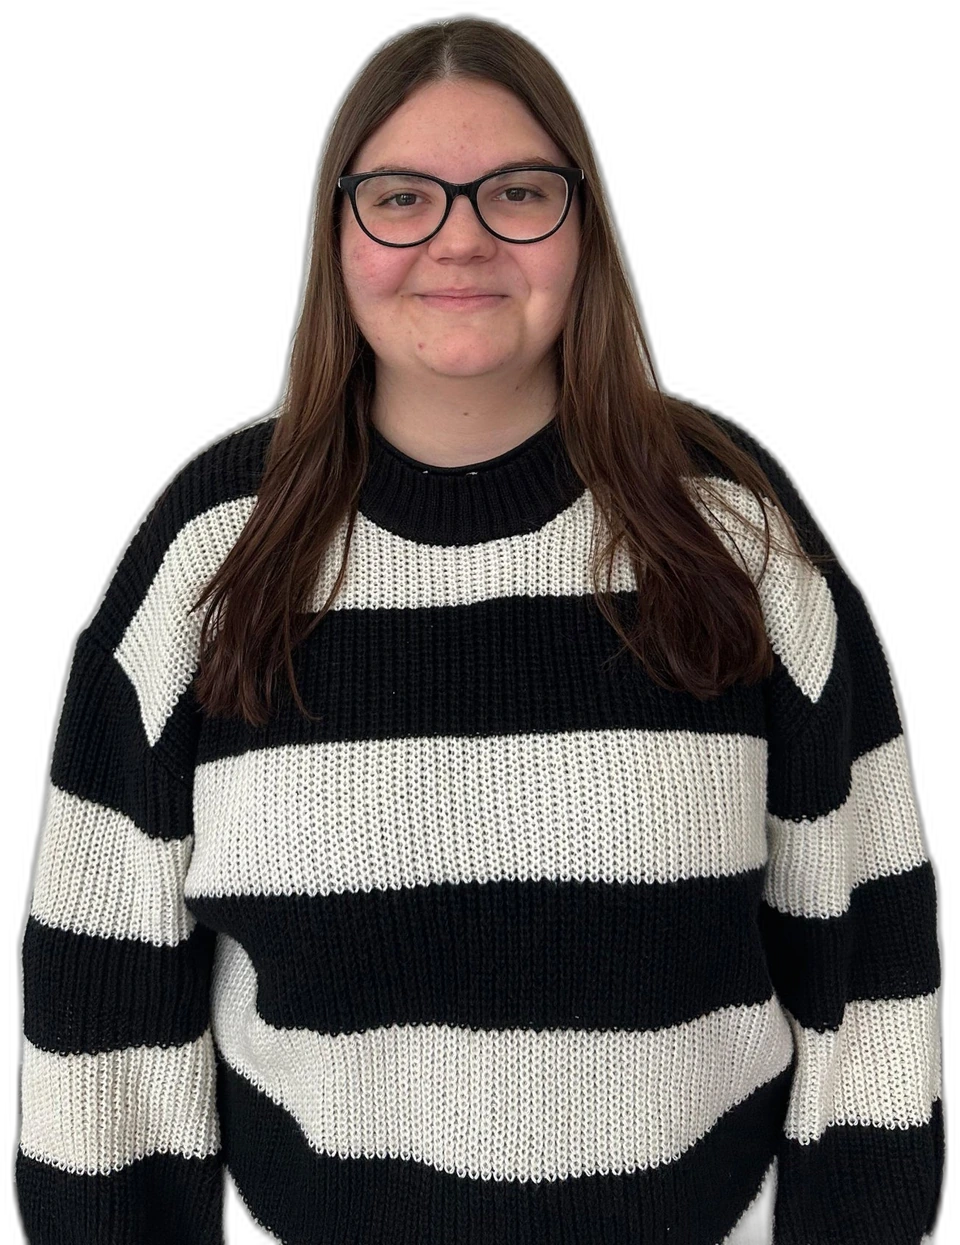
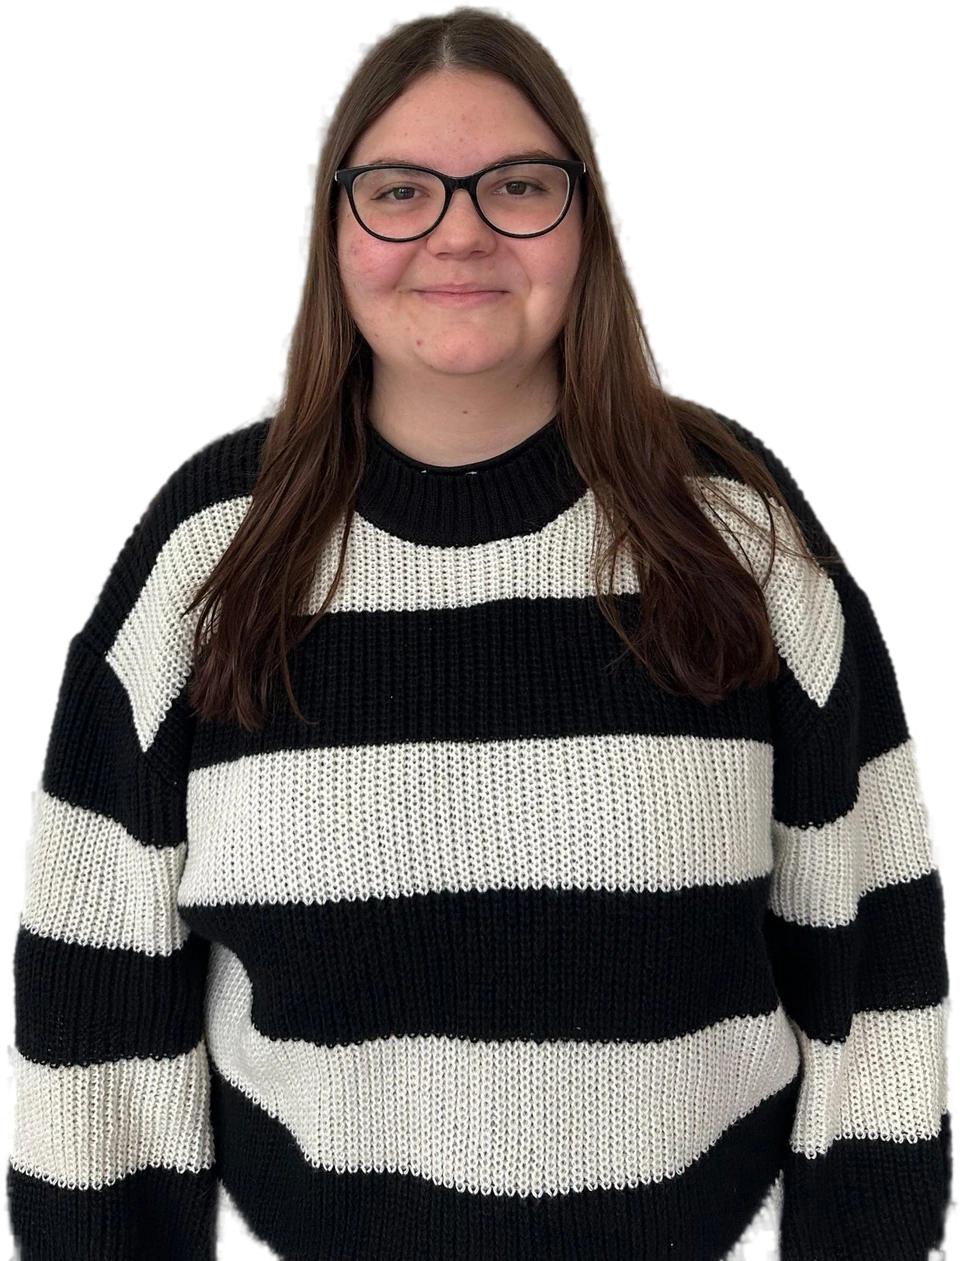
Cleaner portrait cutout, shift left, tighten section heights
Claude-Session: https://claude.ai/code/session_01MGpawRiiwHTkNBdGgmQyvH

diff --git a/app/globals.css b/app/globals.css
@@ -266,7 +266,7 @@ section {
 .heroPortrait {
   position: absolute;
 
-  left: 53%;
+  left: 49%;
   bottom: -40px;
 
   transform: translateX(-50%);
@@ -359,7 +359,7 @@ section {
 ========================================= */
 
 .aboutJourney {
-  padding: 110px 65px 40px;
+  padding: 90px 65px 30px;
 
   background: var(--white);
 
@@ -367,7 +367,7 @@ section {
 }
 
 .journeySection {
-  padding: 110px 65px 140px;
+  padding: 80px 65px 90px;
 
   background: #d6d3cb;
 
@@ -380,9 +380,7 @@ section {
 ========================================= */
 
 .aboutIntro {
-  min-height: 80vh;
-
-  padding: 100px 0 130px;
+  padding: 60px 0 70px;
 
   display: grid;
 
@@ -468,7 +466,7 @@ section {
 
   width: min(1150px, 92%);
 
-  margin-top: 100px;
+  margin-top: 60px;
   margin-left: auto;
 }
 
@@ -496,9 +494,7 @@ section {
 .journeyItem {
   position: relative;
 
-  min-height: 270px;
-
-  padding-bottom: 90px;
+  padding-bottom: 55px;
 
   display: grid;
 
@@ -614,9 +610,7 @@ section {
 ========================================= */
 
 .workSection {
-  min-height: 120vh;
-
-  padding: 100px 65px 140px;
+  padding: 80px 65px 90px;
 
   background: var(--black);
 
@@ -624,7 +618,7 @@ section {
 }
 
 .workHeader {
-  padding-bottom: 90px;
+  padding-bottom: 50px;
 
   color: var(--grey);
 }
@@ -862,9 +856,7 @@ section {
 ========================================= */
 
 .labTeaser {
-  min-height: 100vh;
-
-  padding: 100px 65px 130px;
+  padding: 80px 65px 90px;
 
   background: var(--white);
 
@@ -872,7 +864,7 @@ section {
 }
 
 .labTeaserContent {
-  margin-top: 120px;
+  margin-top: 60px;
 
   display: grid;
 
@@ -955,9 +947,9 @@ section {
 ========================================= */
 
 .contact {
-  min-height: 100vh;
+  min-height: 90vh;
 
-  padding: 100px 65px 40px;
+  padding: 80px 65px 40px;
 
   display: flex;
   flex-direction: column;
